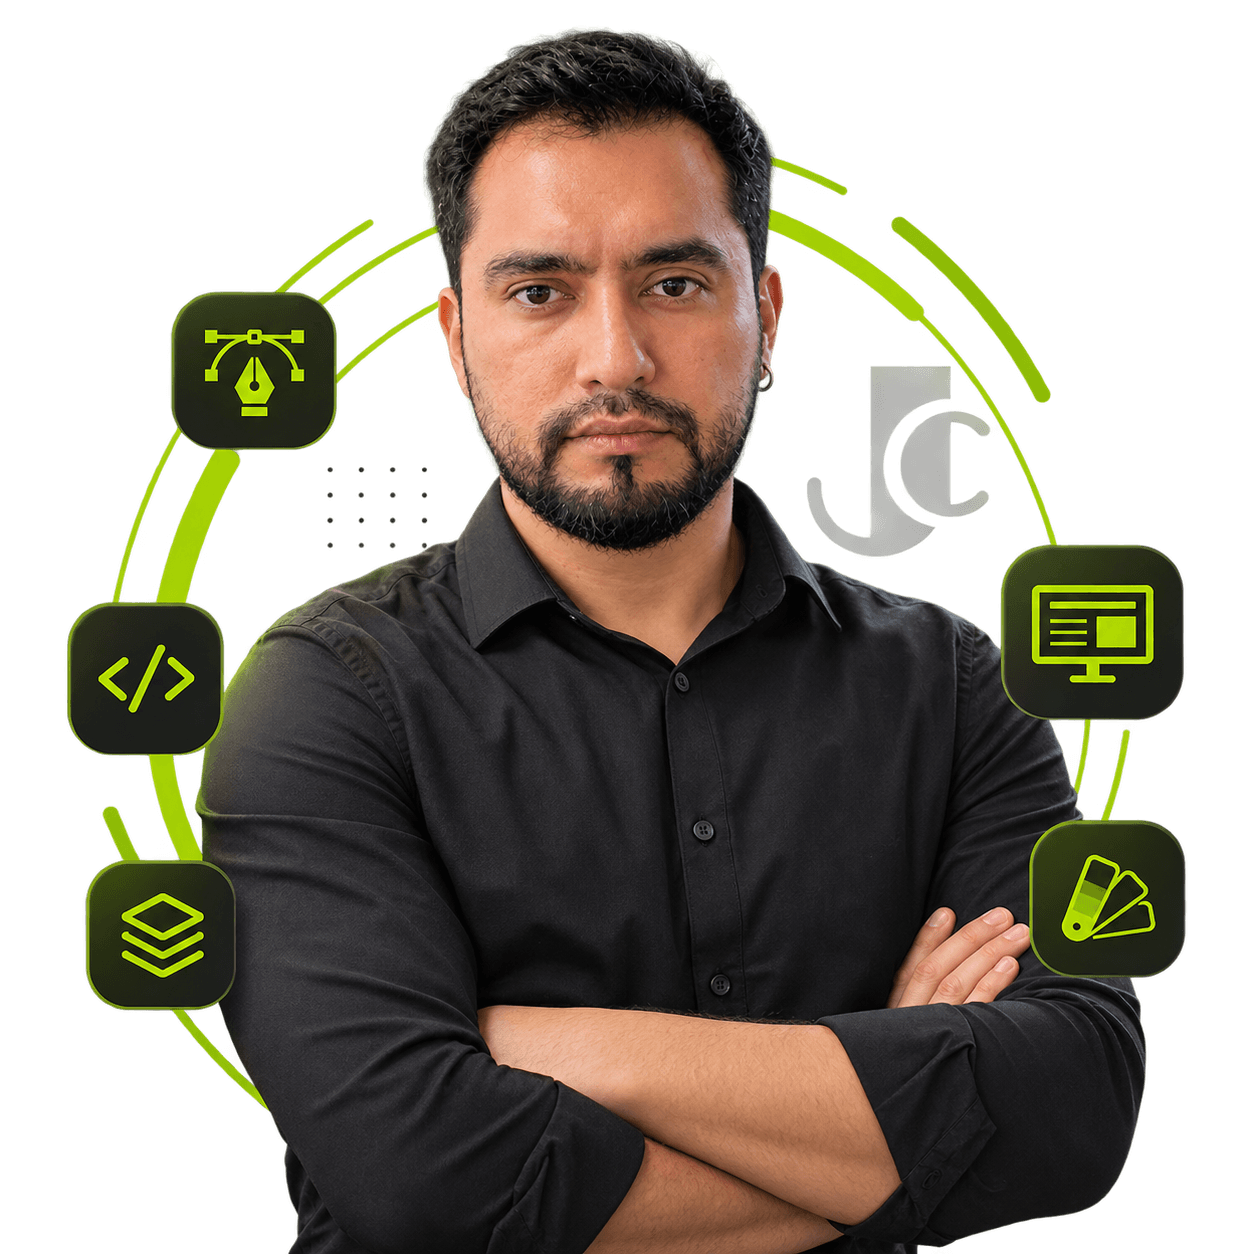
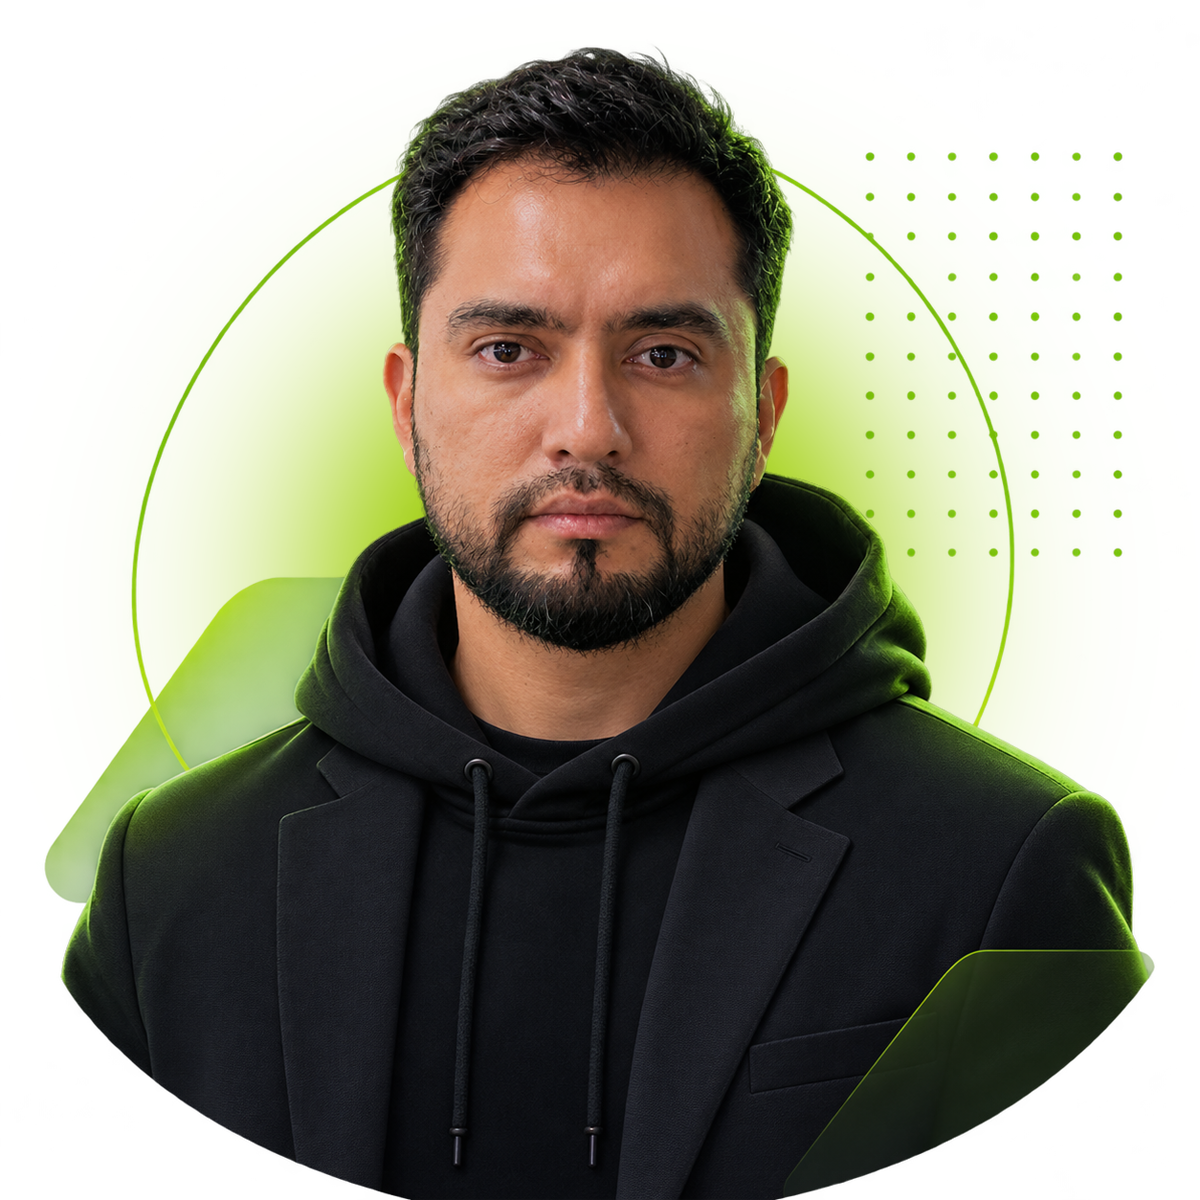
Actualización de estilos y hero

diff --git a/styles/styles.css b/styles/styles.css
@@ -939,15 +939,30 @@ body:has(.hidden-checkbox:checked) .footerText {
   }
 }
 .heroImage {
-  width: 500px;
-  height: 500px;
-  background: transparent url("../media/images/hero.png") no-repeat center;
-  background-size: 500px 500px;
+  position: relative;
+  width: 50%;
 }
-@media (max-width: 1024px) {
+@media screen and (max-width: 700px) {
   .heroImage {
-    width: 100%;
+    width: 60%;
   }
+}
+@media screen and (max-width: 500px) {
+  .heroImage {
+    width: 70%;
+  }
+}
+.heroImage:after {
+  content: "";
+  display: block;
+  padding-bottom: 100%;
+}
+.heroImagePhoto {
+  position: absolute;
+  width: 100%;
+  height: 100%;
+  background: transparent url("../media/images/hero.png") no-repeat center;
+  background-size: contain;
 }
 .hero .chevron {
   animation: bounce 1s ease infinite;
@@ -1145,9 +1160,7 @@ body:has(.hidden-checkbox:checked) .footerText {
   cursor: pointer;
   text-decoration: none;
   width: 280px;
-  height: -webkit-fill-available;
-  height: -moz-available;
-  height: stretch;
+  height: 480px;
   display: flex;
   flex-direction: column;
   justify-content: center;
@@ -1188,7 +1201,7 @@ body:has(.hidden-checkbox:checked) .footerText {
 }
 .projectItemInfo {
   width: 100%;
-  height: 250px;
+  height: 280px;
   margin: 0px;
   padding: 20px;
 }
@@ -1246,7 +1259,7 @@ body:has(.hidden-checkbox:checked) .footerText {
   font-size: 12px;
 }
 .projectItem:hover {
-  transform: translateY(4px);
+  transform: translateY(-10px);
 }
 .projectItem:hover .projectItemImg {
   transform: scale(1.08);

diff --git a/styles/sections/_hero.scss b/styles/sections/_hero.scss
@@ -63,13 +63,35 @@
             }
         }
     }
+    // &Image{
+    //     width: 500px;
+    //     height: 500px;
+    //     background: transparent url('../media/images/hero.png') no-repeat center;
+    //     background-size: 500px 500px;
+    //     @media (max-width: 1024px) {
+    //         width: 100%;
+    //     }
+    // }
     &Image{
-        width: 500px;
-        height: 500px;
-        background: transparent url('../media/images/hero.png') no-repeat center;
-        background-size: 500px 500px;
-        @media (max-width: 1024px) {
+        position: relative;
+        width: 50%;
+        @media screen and (max-width: 700px){
+            width: 60%;
+        }
+        @media screen and (max-width: 500px){
+            width: 70%;
+        }
+        &:after {
+            content: "";
+            display: block;
+            padding-bottom: 100%;
+        }
+        &Photo{
+            position: absolute;
             width: 100%;
+            height: 100%;
+            background: transparent url('../media/images/hero.png') no-repeat center;
+            background-size: contain;
         }
     }
     .chevron{

diff --git a/styles/sections/_projects.scss b/styles/sections/_projects.scss
@@ -32,7 +32,8 @@
         cursor: pointer;
         text-decoration: none;
         width: 280px;
-        height: stretch;
+        // height: stretch;
+        height: 480px;
         @include mix.flex-col;
         justify-content: flex-start;
         align-items: flex-start;
@@ -67,7 +68,8 @@
         }
         &Info{
             width: 100%;
-            height: 250px;
+            // height: 250px;
+            height: 280px;
             margin: 0px;
             padding: 20px;
         }
@@ -112,7 +114,7 @@
             }
         }
         &:hover {
-            transform: translateY(4px);
+            transform: translateY(-10px);
             .projectItemImg {
                 transform: scale(1.08);
             }

diff --git a/index.html b/index.html
@@ -141,7 +141,10 @@
                     </p>
                 </div>
             </div>
-            <div class="heroImage"></div>
+            <!-- <div class="heroImage"></div> -->
+            <div class="heroImage">
+                <div class="heroImagePhoto"></div>
+            </div>
         </div>
         <div class="chevron bottom"></div>
     </section>
